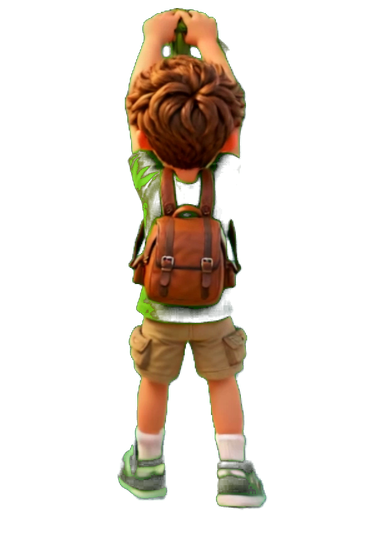
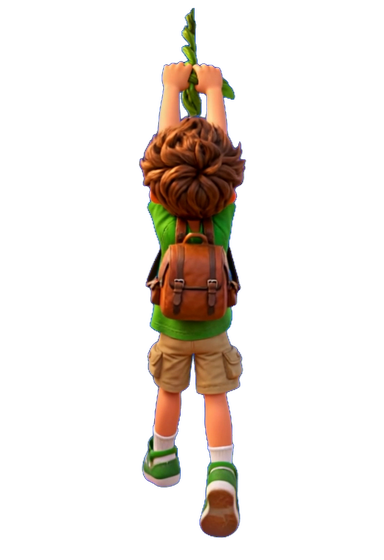
intro speelt weer op de iPhone: de film wordt nooit meer verborgen (iOS speelt een onzichtbare stille video niet automatisch af — sinds build 8 stond hij op opacity 0 tot hij speelde, dus hij speelde nooit); het eerste beeld is nu zijn poster; slingerende jongen opnieuw gefilmd op blauw zodat zijn g

Changed region(s): [[0.3125, 0.0, 0.7188, 0.9714]]

diff --git a/screens.css b/screens.css
@@ -36,7 +36,7 @@
 @media(max-width:420px){.quiz-card{padding:4% 2.8% 2.8%;gap:1.5%}.quiz-art{flex-basis:29%;min-height:125px}.quiz-card .answer{min-height:72px;padding-inline-start:38px}.answer-letter{inset-inline-start:8px}.quiz-actions .action{padding:11px 8px}}
 
 /* ---- cinematic intro branding (was intro-enhance.css) ---- */
-.motion.kwizillo-cinematic{background:#1d5fa8}.motion.kwizillo-cinematic .intro-main{transition:opacity .25s ease-out}.motion.kwizillo-cinematic:not(.cinematic-playing) .intro-main,.motion.kwizillo-cinematic:not(.cinematic-playing) .intro-brand{opacity:0}.intro-bg{display:none}.intro-brand{position:absolute;z-index:5;left:50%;top:5.2%;transform:translateX(-50%);display:grid;place-items:center;width:min(84%,465px);pointer-events:none;animation:introBrandJourney 12s cubic-bezier(.2,.75,.18,1) both;animation-play-state:paused}.motion.kwizillo-cinematic.cinematic-playing .intro-brand{animation-play-state:running}.intro-brand-logo{display:block;width:100%;height:auto}/* the film as it is, no filter or shade: the launch screen is its first frame and must match it to the pixel */.motion.kwizillo-cinematic::after{display:none}@keyframes introBrandJourney{0%{opacity:0;transform:translate(-50%,-16px) scale(.72)}6%{opacity:1;transform:translate(-50%,0) scale(1.08)}13%{transform:translate(-50%,0) scale(1)}22%{opacity:1}30%{opacity:0;transform:translate(-50%,-8px) scale(.95)}76%{opacity:0;transform:translate(-50%,8px) scale(.9)}84%{opacity:1;transform:translate(-50%,0) scale(1.07)}92%{transform:translate(-50%,0) scale(.99)}100%{opacity:1;transform:translate(-50%,0) scale(1)}}
+.motion.kwizillo-cinematic{background:#1d5fa8}/* the film is never hidden (iOS does not autoplay an invisible video); its poster is its first frame */.motion.kwizillo-cinematic .intro-main{background:transparent}.motion.kwizillo-cinematic:not(.cinematic-playing) .intro-brand{opacity:0}.intro-bg{display:none}.intro-brand{position:absolute;z-index:5;left:50%;top:5.2%;transform:translateX(-50%);display:grid;place-items:center;width:min(84%,465px);pointer-events:none;animation:introBrandJourney 12s cubic-bezier(.2,.75,.18,1) both;animation-play-state:paused}.motion.kwizillo-cinematic.cinematic-playing .intro-brand{animation-play-state:running}.intro-brand-logo{display:block;width:100%;height:auto}/* the film as it is, no filter or shade: the launch screen is its first frame and must match it to the pixel */.motion.kwizillo-cinematic::after{display:none}@keyframes introBrandJourney{0%{opacity:0;transform:translate(-50%,-16px) scale(.72)}6%{opacity:1;transform:translate(-50%,0) scale(1.08)}13%{transform:translate(-50%,0) scale(1)}22%{opacity:1}30%{opacity:0;transform:translate(-50%,-8px) scale(.95)}76%{opacity:0;transform:translate(-50%,8px) scale(.9)}84%{opacity:1;transform:translate(-50%,0) scale(1.07)}92%{transform:translate(-50%,0) scale(.99)}100%{opacity:1;transform:translate(-50%,0) scale(1)}}
 /* ---- Home hub: real DOM over a painted sky, no screenshot layer ---- */
 .home{position:absolute;inset:0;overflow:hidden;background:#0b3f92;color:#fff}
 .home-sky{position:absolute;inset:0;background:

diff --git a/intro.js b/intro.js
@@ -34,7 +34,7 @@
     const adopt=!!early&&early.getAttribute('src')===url.split('?')[0];
     const frame=K.frame(`<div class="motion kwizillo-cinematic${adopt?'':' fade-in'}${wideFilm?' wide-film':''}">
       ${needsBg?`<video class="intro-bg" muted playsinline autoplay preload="auto" aria-hidden="true" src="${url}"></video>`:''}
-      <video class="intro-main" muted playsinline autoplay preload="auto" src="${url}"></video>
+      <video class="intro-main" muted playsinline autoplay preload="auto" src="${url}"${needsBg?'':` poster="${wideFilm?'assets/brand/intro-wide-first.png':'assets/brand/intro-first.png'}"`}></video>
       <div class="intro-brand"><img class="intro-brand-logo" src="${K.BRAND_LOGO_SHADOW||K.BRAND_LOGO||''}" alt="Kwizillo"></div>
       <div class="intro-sound" id="introSound">🔊 ${K.t('intro.tapForSound')}</div>
     </div>`);
@@ -58,9 +58,8 @@
     // launch screen and intro-early.js show too (only where the film fills the
     // screen; a portrait film on a wide screen stands on the blue).
     if(!needsBg) el.style.background=`#1d5fa8 url("${wideFilm?'assets/brand/intro-wide-first.png':'assets/brand/intro-first.png'}") center/cover no-repeat`;
-    // The logo and the film appear together, the moment the film really moves
-    // (base blue until then, the same as the launch screen: no dark flash, no
-    // logo over an empty screen). An adopted film may be playing already.
+    // The logo comes the moment the film really moves (until then the film's
+    // poster, its first frame, stands still). An adopted film may be playing already.
     const moving=()=>{el.classList.add('cinematic-playing');window.KWIZILLO_INTRO_MARK_OUT?.();K.hideSplash?.()};
     // An adopted film that is already on screen stays on screen (data-playing:
     // its 'playing' has been, even if currentTime is still 0).

diff --git a/intro-early.js b/intro-early.js
@@ -36,11 +36,15 @@
   v.muted=true;v.playsInline=true;v.autoplay=true;v.preload='auto';
   v.setAttribute('playsinline','');v.setAttribute('aria-hidden','true');
   v.src=wide?'assets/brand/intro-wide.mp4':'assets/brand/intro.mp4';
-  v.style.cssText=full+'z-index:9999;opacity:0';
-  // Shown at once (it is the same picture as the still), the still goes a
-  // couple of frames later when the film certainly covers it. intro.js reads
-  // data-playing when it takes the element over.
-  v.addEventListener('playing',()=>{v.dataset.playing='1';v.style.opacity='1';setTimeout(()=>{stillOut();root.style.background=''},150)},{once:true});
+  // Never hidden: iOS does not autoplay a video it considers invisible
+  // (opacity 0 kept it waiting for ever on a real iPhone; the simulator plays
+  // it anyway). Its poster is the same first frame, so nothing shows until
+  // the film moves.
+  v.poster=still.src;
+  v.style.cssText=full+'z-index:9999;background:transparent';
+  // The still under it goes a couple of frames after the film really plays.
+  // intro.js reads data-playing when it takes the element over.
+  v.addEventListener('playing',()=>{v.dataset.playing='1';setTimeout(()=>{stillOut();root.style.background=''},150)},{once:true});
   root.appendChild(v);
   const p=v.play();if(p&&p.catch)p.catch(()=>{});
   // Never left behind: intro.js takes it (and drops the id) or removes it.
